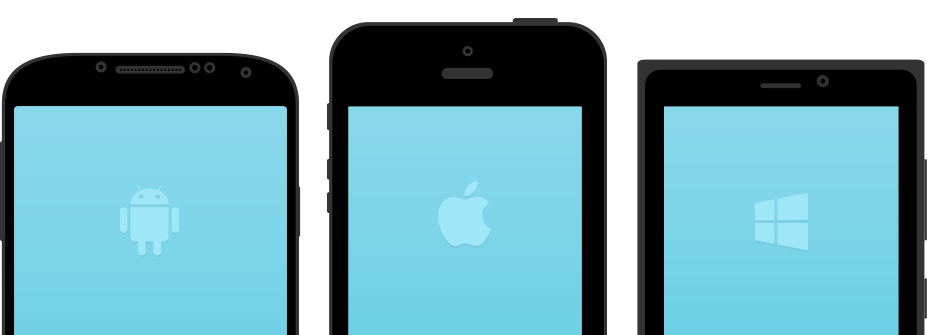
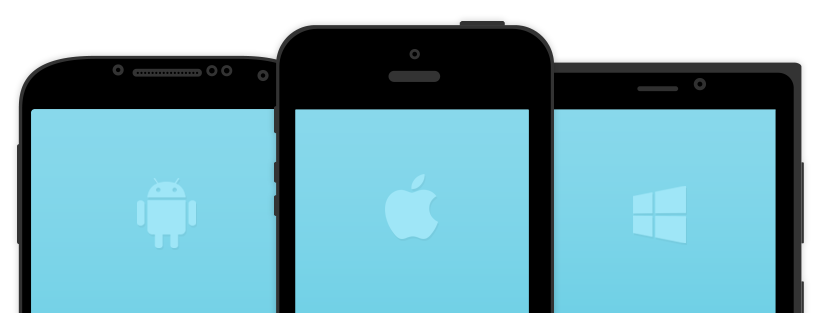
Replaced old background tile with grid.png Made changes to css.

diff --git a/public/stylesheets/style.css b/public/stylesheets/style.css
@@ -21,13 +21,15 @@ li {
   display: block;
 }
 
-.jumbotron {
-  background-image:url("../images/tile.png");
+#bg-container {
+  background-image:url("../images/grid.png");
+  background-position: center bottom;
+  background-repeat: no-repeat;
+  background-size: contain;
 }
 
 #logo {
   padding:15px;
-  margin-bottom: 15px;
 }
 
 #pay-off p {
@@ -82,6 +84,10 @@ li {
   border-style: solid;
 }
 
+#new_user {
+  margin-bottom: 50px;
+}
+
 #new_user input[type='text'] {
   display: none;
 }
@@ -105,11 +111,21 @@ span.error div.name, span.error div.email{
 
 input.error {
   border-color: #e9c8d1;
+  border-width: 2px;
   color: #c53f5a;
 }
 
 /* Large Devices */
 @media (min-width: 1200px) {
+
+  #bg-container{
+    min-height: 300px;
+  }
+
+  #phones {
+    padding-top:75px;
+  }
+
   #emailNote{
     padding-top: 15px;
     padding-bottom: 15px;
@@ -118,6 +134,9 @@ input.error {
 
 /* Medium Devices & Small Devices */
 @media (max-width: 768px) {
+  #pay-off {
+    margin-bottom: 0px;
+  }
   #content{
     padding-left:75px;
     padding-right:75px;
@@ -149,13 +168,12 @@ input.error {
   #emailNote {
     max-width: 170px;
     margin: 0 auto;
-    margin-bottom: 50px;
     text-align: center;
   }
 }
 
 /* Small Devices*/
-@media (max-width: 480px) {
+@media (max-width: 515px) {
 
   #phones img {
     display: none;
@@ -163,7 +181,7 @@ input.error {
 
   #phones {
     background:url(../images/small_phones_bg.png) no-repeat;
-    min-height: 400px;
+    min-height: 380px;
     background-size: cover;
     background-position: center bottom;
   }
@@ -172,4 +190,12 @@ input.error {
     margin-left: 30px;
     margin-right: 30px;
   }
+}
+
+.feedback {
+  margin: 20px;
+}
+
+.feedback span {
+  max-width: 185px;
 }

diff --git a/public/stylesheets/bootstrap.css b/public/stylesheets/bootstrap.css
@@ -1581,6 +1581,7 @@ input[type="number"]::-webkit-inner-spin-button {
   background-color: #eaeaea;
   border: 1px solid #eaeaea;
   border-top-color: #d8d8d8;
+  border-width: 2px;
   border-radius: 4px;
   -webkit-box-shadow: inset 0 1px 1px rgba(0, 0, 0, 0.075);
   box-shadow: inset 0 1px 1px rgba(0, 0, 0, 0.075);
